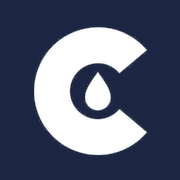
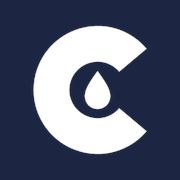
Restore official mark asset

diff --git a/src/components/site/header-brand.tsx b/src/components/site/header-brand.tsx
@@ -78,7 +78,7 @@ export function HeaderBrand() {
         className="flex items-center gap-2.5 outline-none drop-shadow-[0_0_14px_rgb(224_138_46_/_0.28)] transition-[filter] duration-500 group-hover/brand:drop-shadow-[0_0_20px_rgb(242_193_75_/_0.5)] sm:gap-3"
       >
         <img
-          src="/mark.png?v=3"
+          src="/mark.png?v=4"
           alt=""
           className="size-9 shrink-0 outline-none sm:size-11"
         />
@@ -95,7 +95,7 @@ export function HeaderBrand() {
       {/* Collapsed: mark only (spins in on scroll) */}
       <img
         data-brand-mark
-        src="/mark.png?v=3"
+        src="/mark.png?v=4"
         alt=""
         className="pointer-events-none absolute size-9 outline-none drop-shadow-[0_0_14px_rgb(224_138_46_/_0.35)] transition-[filter] duration-500 group-hover/brand:drop-shadow-[0_0_20px_rgb(242_193_75_/_0.6)] sm:size-11"
       />

diff --git a/src/components/site/home-page.tsx b/src/components/site/home-page.tsx
@@ -36,7 +36,7 @@ export function HomePage() {
           </Reveal>
           <Reveal delay={80}>
             <aside data-tilt="10" className="glow-card rounded-xl bg-navy p-6 text-paper shadow-[0_0_0_1px_rgb(224_138_46_/_0.35)] sm:p-8">
-              <img src="/mark.png?v=3" alt="" className="drop-pulse size-12 outline-none" />
+              <img src="/mark.png?v=4" alt="" className="drop-pulse size-12 outline-none" />
               <p className="mt-5 font-serif text-base leading-relaxed text-ice">{t.club.aside}</p>
             </aside>
           </Reveal>

diff --git a/src/components/site/hero-panels.tsx b/src/components/site/hero-panels.tsx
@@ -125,7 +125,7 @@ export function HeroPanels() {
         <div ref={content} className="relative flex flex-col items-center">
           <div data-depth="22" className="relative">
             <div data-hero-logo>
-            <img src="/mark.png?v=3" alt="" className="relative size-24 outline-none drop-pulse sm:size-32" />
+            <img src="/mark.png?v=4" alt="" className="relative size-24 outline-none drop-pulse sm:size-32" />
             </div>
           </div>
           <div data-depth="10" className="flex flex-col items-center">

diff --git a/src/components/site/brand-mark.tsx b/src/components/site/brand-mark.tsx
@@ -14,7 +14,7 @@ export function BrandMark({ className, compact = false }: { className?: string; 
       className={cn("inline-flex items-center gap-2.5 rounded-lg outline-none sm:gap-3", className)}
     >
       <img
-        src="/mark.png?v=3"
+        src="/mark.png?v=4"
         alt=""
         className={cn("shrink-0 outline-none", compact ? "size-9" : "size-11 sm:size-12")}
       />

diff --git a/src/components/motion/motion-root.tsx b/src/components/motion/motion-root.tsx
@@ -289,7 +289,7 @@ function RouteCurtain({ pathname }: { pathname: string }) {
       style={{ visibility: "hidden", opacity: 0 }}
     >
       <div className="absolute inset-0 bg-grid opacity-60" />
-      <img src="/mark.png?v=3" alt="" className="relative size-24 outline-none" />
+      <img src="/mark.png?v=4" alt="" className="relative size-24 outline-none" />
     </div>
   );
 }
